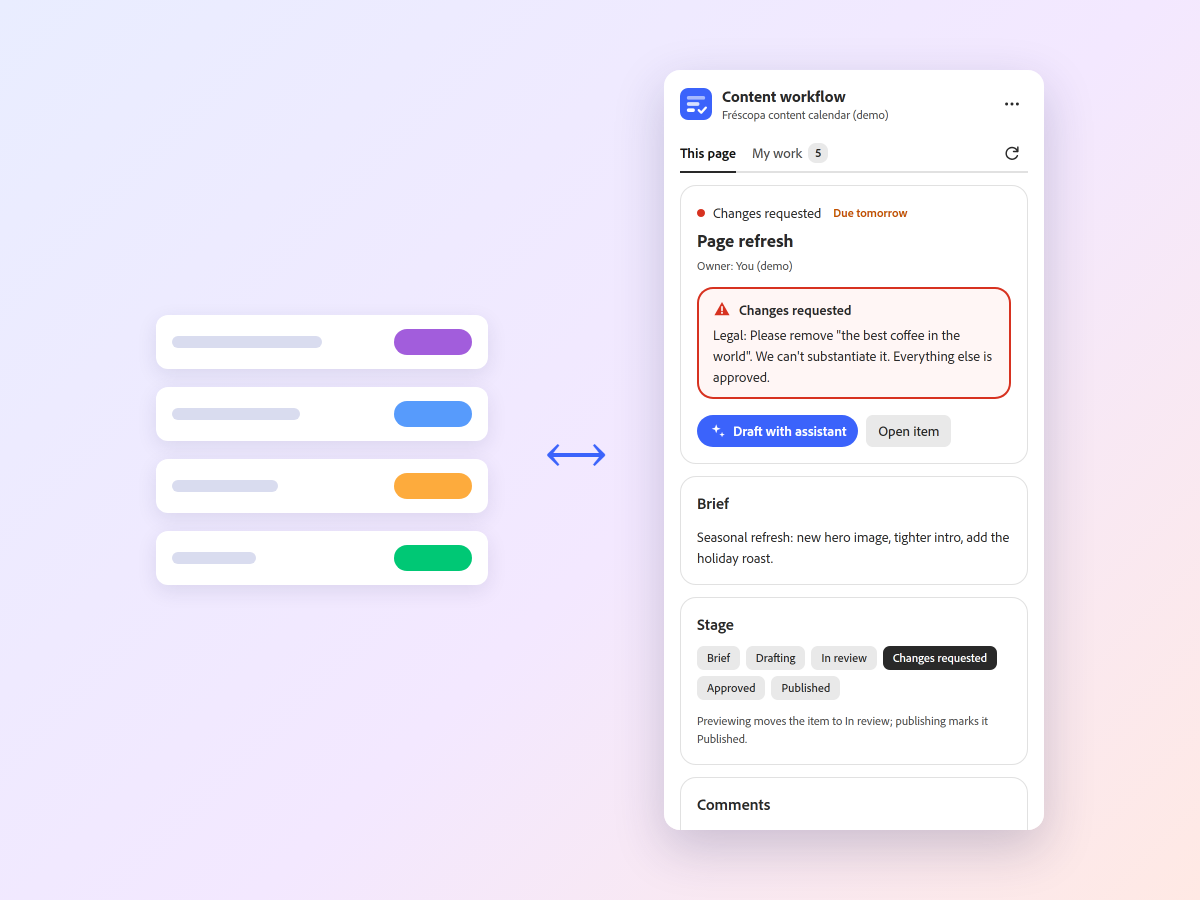
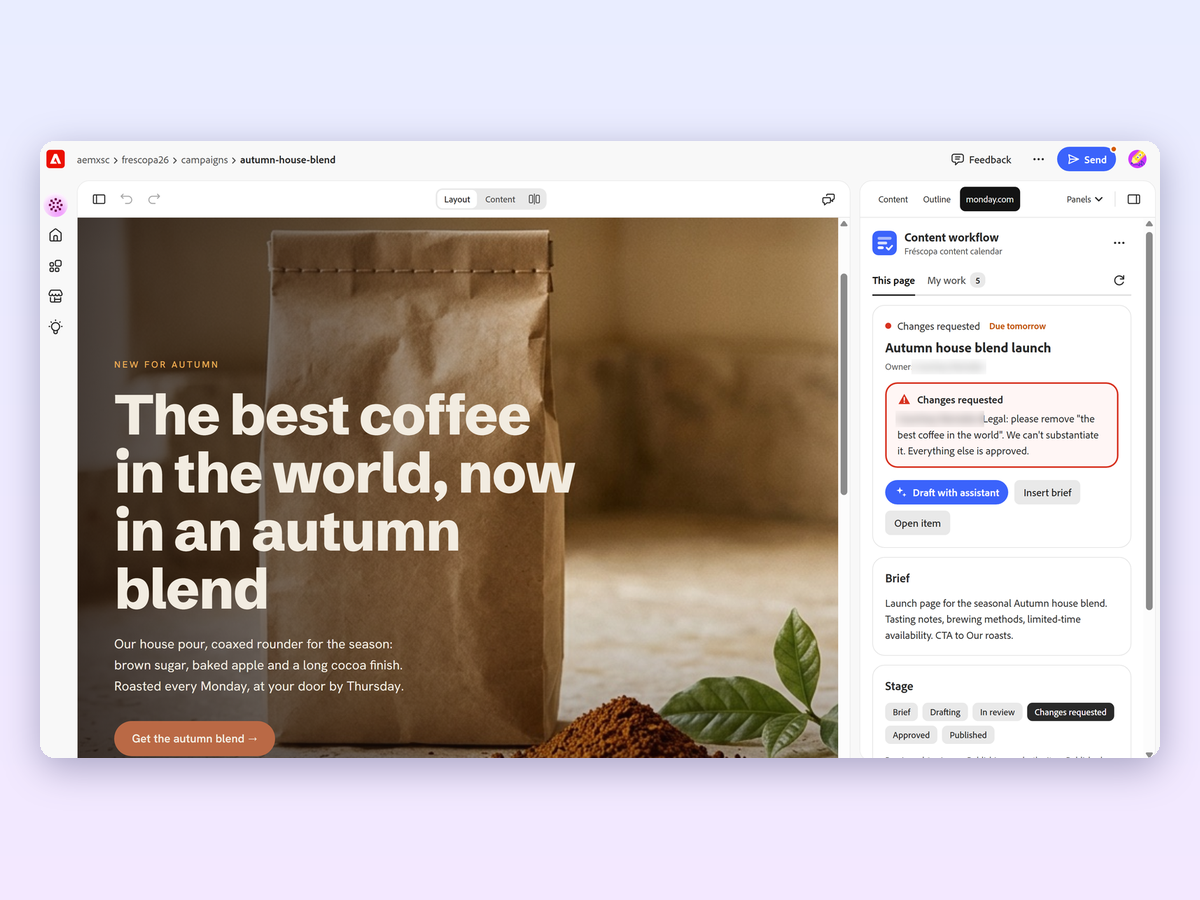
docs: real Workspace review screenshot as README hero and marketplace card

diff --git a/README.md b/README.md
@@ -24,11 +24,14 @@ follow without touching the panel.
 
 This plugin is not made or endorsed by monday.com.
 
-| In Experience Workspace | In monday.com |
-|---|---|
-| ![The panel in Experience Workspace: the page's item is in Changes requested, with Legal's comment](docs/img/panel.png) | ![The content board in monday.com: items by stage, owner and due date, with an "Edit in Workspace" link back to the page](docs/img/board.png) |
+![A page open in Experience Workspace with the monday.com panel: the item is in Changes requested and Legal's comment flags the headline's claim](docs/img/workspace-review.png)
 
-The page's item, its stage and the reviewer's comment show next to the canvas.
+The author opens the page and sees what the content team decided: the item is
+in *Changes requested*, and Legal's comment says the headline's claim has to
+go. The brief and stage are right there too.
+
+![The content board in monday.com: items by stage, owner and due date, with an "Edit in Workspace" link back to the page](docs/img/board.png)
+
 On the board, the **Page** column links each item back to its page in
 Workspace.
 
@@ -37,11 +40,13 @@ This README is for site admins. For how to use the panel, see the
 
 ## Try it without an account
 
-[Open the demo](https://main--ew-monday--aemxsc.aem.page/tools/monday/monday.html?demo=1&org=aemxsc&site=frescopa26&path=/coffee):
+[Open the demo](https://main--ew-monday--aemxsc.aem.page/tools/monday/monday.html?demo=1&org=aemxsc&site=frescopa26&path=/campaigns/autumn-house-blend):
 sample Fréscopa board data, nothing leaves the browser. Buttons at the bottom
 simulate previewing and publishing the page so you can watch the item move
 through the stages. Add `?demo=1` to the library `path` to try it inside
 Workspace the same way.
+
+<img src="docs/img/panel.png" alt="The panel in demo mode" width="380">
 
 ## Before you start
 
